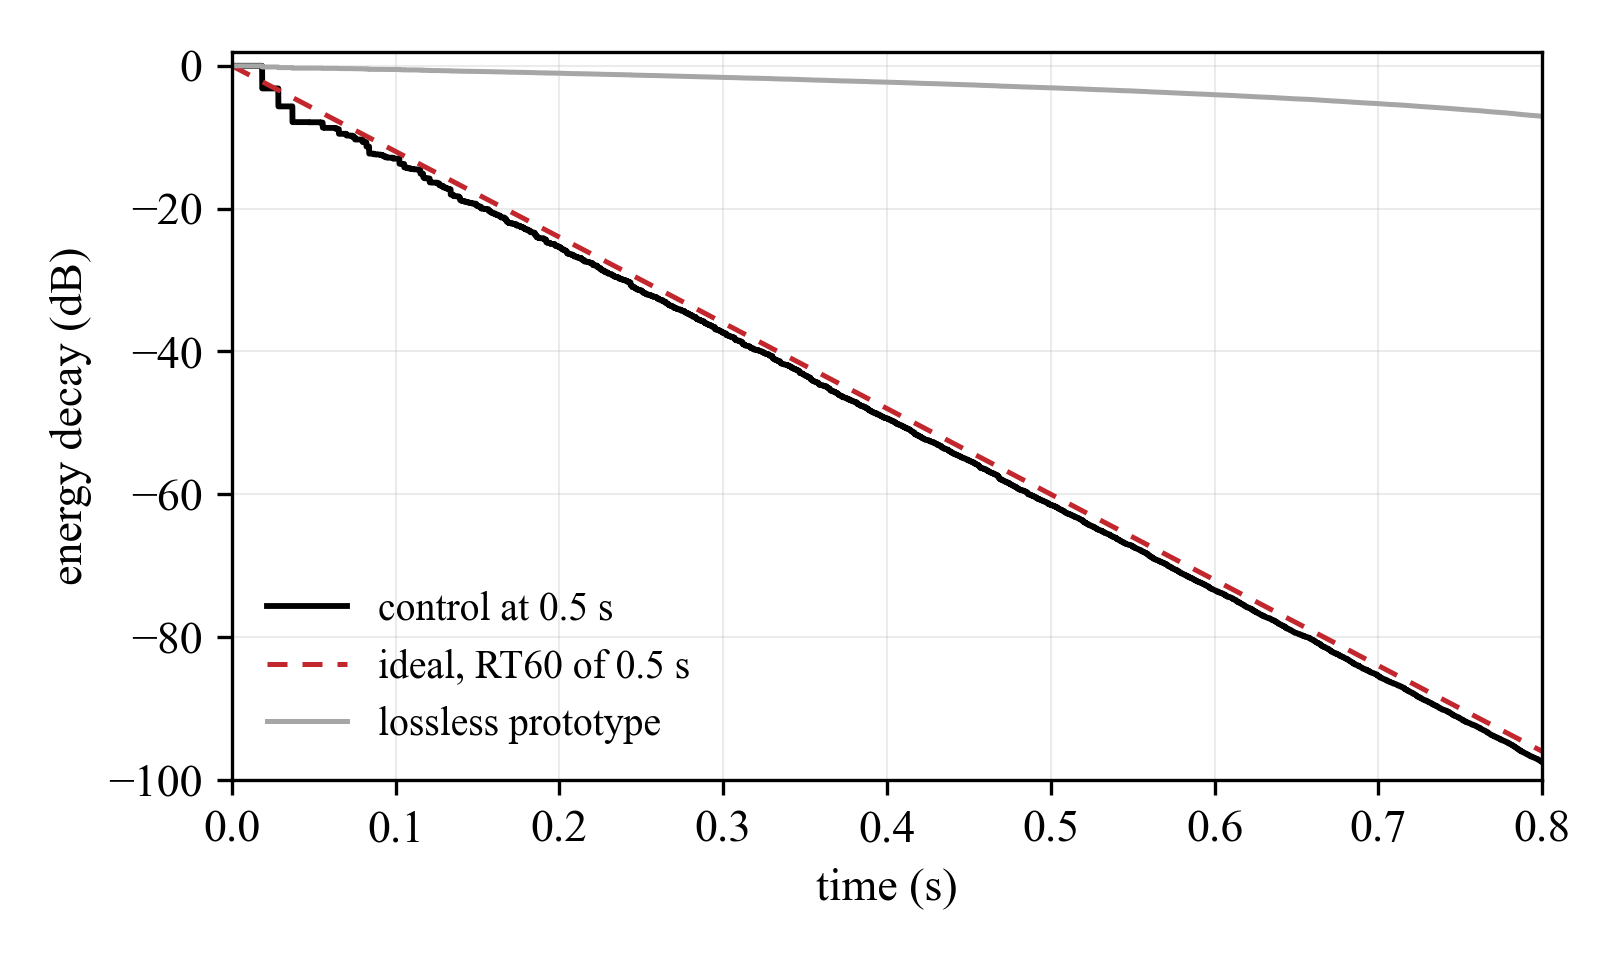
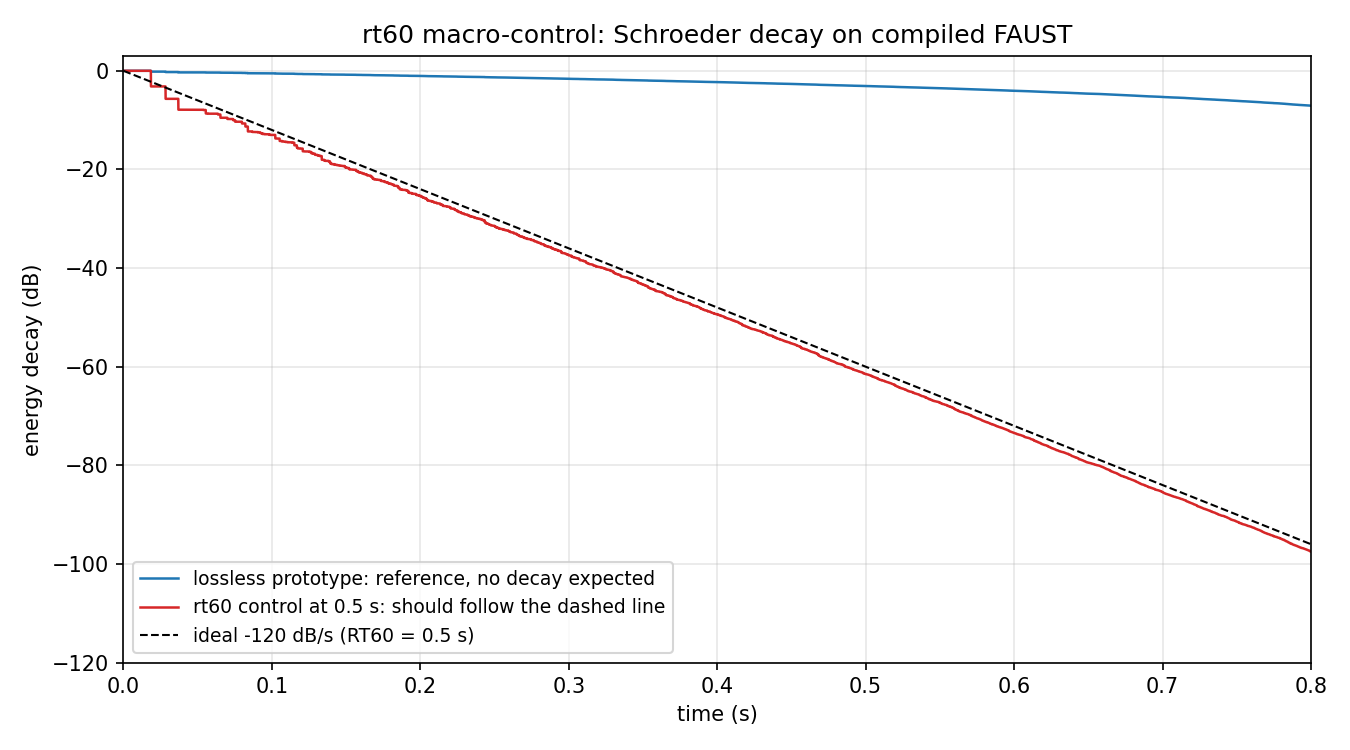
Revert "clap wrapper, some paper plots"
This reverts commit a9835b48e30d9b4876c828123dcd40a8e72a4388.

diff --git a/examples/make_plots.py b/examples/make_plots.py
@@ -3,13 +3,13 @@
 """
 generate the equivalence and rt60-validation figures in plots/.
 
-two figures, styled for the paper (serif, no internal titles)
-  edc_match.png       schroeder energy decay of flamo vs the compiled
-                      faust, overlaid. the curves coincide, which is
-                      the whole message. sample-level agreement is
-                      stated numerically in the text, not plotted
-  rt60_validation.png energy decay of the compiled plugin with the
-                      rt60 knob at 0.5 s, against the ideal
+two figures:
+  ir_match.png        flamo vs compiled faust on one representative
+                      path: overlay on top (exact match = traces
+                      coincide), difference below in db re peak (the
+                      gap is the story: ~100 db = float32 noise)
+  rt60_validation.png schroeder energy decay of the compiled plugin
+                      with the rt60 knob at 0.5 s, against the ideal
                       -120 db/s line and the lossless reference
 
 requires faust2plot on PATH and an environment with flamo, torch,
@@ -31,16 +31,6 @@ from pathlib import Path
 import matplotlib
 matplotlib.use("Agg")
 import matplotlib.pyplot as plt
-
-#paper styling, matches a times-set document
-plt.rcParams.update({
-    "font.family": "serif",
-    "font.serif": ["Times New Roman", "Times", "Nimbus Roman", "DejaVu Serif"],
-    "mathtext.fontset": "stix",
-    "font.size": 11,
-    "legend.fontsize": 9.5,
-    "axes.linewidth": 0.8,
-})
 import numpy as np
 import torch
 from flamo.processor import dsp, system
@@ -123,25 +113,42 @@ def main() -> None:
     #no alignment needed, see module docstring
     fa = run_faust(code, "(impulse, 0.0)", "in0", workdir, NFFT)
 
-    #figure 1, energy decay overlay. one concept, two curves that
-    #coincide. readable at first sight by anyone who reads edcs.
+    #figure 1: one representative path (input 1 to output 1), overlay
+    #on top, difference below. the other three stereo paths match
+    #identically and are pinned by the test suite; one readable panel
+    #beats four cluttered ones.
     a, b = fl[0, 0], fa[0]
-    n_cmp = 24000
-    tt = np.arange(n_cmp) / FS
+    peak = np.max(np.abs(a))
+    t_ms = np.arange(NFFT) / FS * 1000.0
+    sl = slice(0, int(0.15 * FS))
 
-    fig, ax = plt.subplots(figsize=(5.4, 3.2))
-    ax.plot(tt, edc_db(a[:n_cmp]), lw=1.4, color="black",
-            label="FLAMO (frequency domain)")
-    ax.plot(tt, edc_db(b[:n_cmp]), lw=1.4, ls=(0, (4, 3)), color="#c1272d",
-            label="generated FAUST (compiled)")
-    ax.set_xlim(0, 0.5)
-    ax.set_ylim(-80, 2)
-    ax.set_xlabel("time (s)")
-    ax.set_ylabel("energy decay (dB)")
-    ax.grid(alpha=0.25, lw=0.5)
-    ax.legend(frameon=False)
+    fig, (ax1, ax2) = plt.subplots(
+        2, 1, figsize=(9, 6), sharex=True,
+        gridspec_kw={"height_ratios": [1.2, 1.0]},
+    )
+    ax1.plot(t_ms[sl], a[sl], lw=1.0, color="#1f77b4",
+             label="FLAMO (frequency domain)")
+    ax1.plot(t_ms[sl], b[sl], lw=1.0, ls="--", color="#ff7f0e",
+             label="generated FAUST (compiled)")
+    ax1.set_ylabel("amplitude")
+    ax1.set_title("impulse response: the traces coincide", fontsize=11)
+    ax1.legend(fontsize=9, loc="upper right")
+    ax1.grid(alpha=0.3)
+
+    ax2.plot(t_ms[sl], 20 * np.log10(np.maximum(np.abs(a[sl]) / peak, 1e-12)),
+             lw=0.7, color="#1f77b4", alpha=0.7, label="response level")
+    ax2.plot(t_ms[sl], 20 * np.log10(np.maximum(np.abs(a[sl] - b[sl]) / peak, 1e-12)),
+             lw=0.7, color="#d62728", label="difference FLAMO vs FAUST")
+    ax2.axhline(-80, color="grey", ls=":", lw=1)
+    ax2.text(2, -75, "-80 dB", fontsize=8, color="grey")
+    ax2.set_ylim(-140, 5)
+    ax2.set_ylabel("dB re peak")
+    ax2.set_xlabel("time (ms)")
+    ax2.set_title("the difference sits about 100 dB below the response",
+                  fontsize=11)
+    ax2.grid(alpha=0.3)
     fig.tight_layout()
-    fig.savefig(OUTDIR / "edc_match.png", dpi=300)
+    fig.savefig(OUTDIR / "ir_match.png", dpi=150)
     plt.close(fig)
 
     #figure 3: rt60 validation, lossless prototype for both variants
@@ -153,21 +160,22 @@ def main() -> None:
                       "lossless", workdir, FS)[0]
 
     tt = np.arange(FS) / FS
-    fig, ax = plt.subplots(figsize=(5.4, 3.2))
-    ax.plot(tt, edc_db(ir_rt), lw=1.4, color="black",
-            label="control at 0.5 s")
-    ax.plot(tt, -120.0 * tt, lw=1.2, ls=(0, (4, 3)), color="#c1272d",
-            label="ideal, RT60 of 0.5 s")
-    ax.plot(tt, edc_db(ir_ll), lw=1.2, color="0.65",
-            label="lossless prototype")
+    fig, ax = plt.subplots(figsize=(9, 5))
+    ax.plot(tt, edc_db(ir_ll), lw=1.2, color="#1f77b4",
+            label="lossless prototype: reference, no decay expected")
+    ax.plot(tt, edc_db(ir_rt), lw=1.2, color="#d62728",
+            label="rt60 control at 0.5 s: should follow the dashed line")
+    ax.plot(tt, -120.0 * tt, ls="--", lw=1, color="black",
+            label="ideal -120 dB/s (RT60 = 0.5 s)")
     ax.set_xlim(0, 0.8)
-    ax.set_ylim(-100, 2)
+    ax.set_ylim(-120, 3)
     ax.set_xlabel("time (s)")
     ax.set_ylabel("energy decay (dB)")
-    ax.grid(alpha=0.25, lw=0.5)
-    ax.legend(frameon=False)
+    ax.set_title("rt60 macro-control: Schroeder decay on compiled FAUST")
+    ax.grid(alpha=0.3)
+    ax.legend(fontsize=9)
     fig.tight_layout()
-    fig.savefig(OUTDIR / "rt60_validation.png", dpi=300)
+    fig.savefig(OUTDIR / "rt60_validation.png", dpi=150)
     plt.close(fig)
 
     for f in sorted(OUTDIR.glob("*.png")):

diff --git a/README.md b/README.md
@@ -122,10 +122,10 @@ the criterion is small-gain: the product of per-element spectral norms around ea
 
 ## equivalence
 
-generated FAUST matches FLAMO sample-exactly, direct paths included. the energy decay of the compiled plugin follows the FLAMO reference throughout, and the underlying impulse responses agree to within single-precision arithmetic noise. all four stereo paths match identically; the suite pins them.
+generated FAUST matches FLAMO sample-exactly, direct paths included. top: the two impulse responses overlaid (they coincide). bottom: their difference, about 100 dB below the response, which is float32 arithmetic noise rather than model mismatch. all four stereo paths match identically; the suite pins them.
 
 <p align="center">
-<img src="plots/edc_match.png" width="70%">
+<img src="plots/ir_match.png" width="80%">
 </p>
 
 the rt60 macro-control on the compiled plugin, measured by Schroeder integration, follows the ideal decay for the slider value: